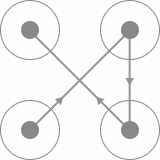
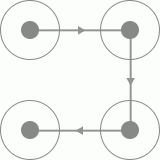
new templates

diff --git a/crack.py b/crack.py
@@ -130,7 +130,7 @@ class CrackWeiboSlide():
         
         return counts
     
-    def crop_image(self, image):
+    def detect_image(self, image):
         result = []
         dark_index = []
         for index, center in enumerate(DETECT_POSITION_CENTERS):
@@ -142,10 +142,11 @@ class CrackWeiboSlide():
     
     def crack(self):
         self.open()
+        count += 1
         # 获取验证码图片
-        image = self.get_image('captcha1.png')
+        image = self.get_image('captcha' + str(count) + '.png')
         # image = Image.open('captcha1.png')
-        self.crop_image(image)
+        # self.crop_image(image)
 
 
 if __name__ == '__main__':
